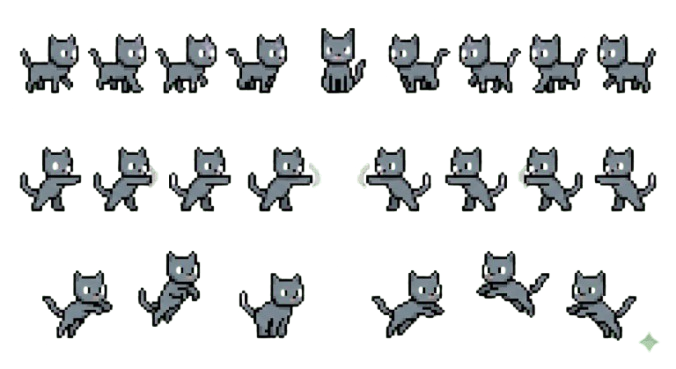
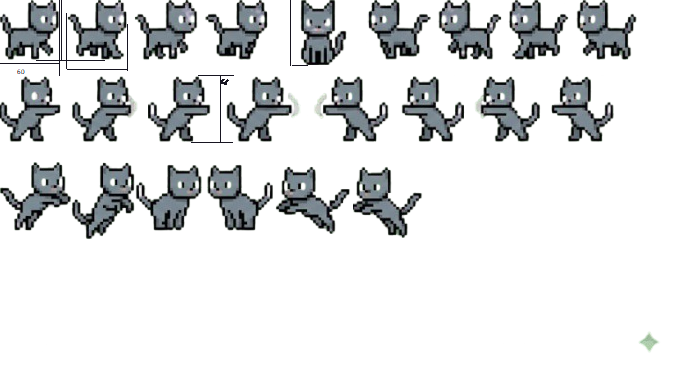
Update player configuration and animations; add grey cat assets

diff --git a/src/entities/Player.ts b/src/entities/Player.ts
@@ -1,6 +1,11 @@
 import { Physics } from "phaser";
 import { PlayerConfig, PlayerState } from "./types/EntityTypes";
-import { ANIMATIONS, ASSETS, ANIMATION_FRAMES, DEFAULT_PLAYER_ASSET } from "../game/constants";
+import {
+  ANIMATIONS,
+  ASSETS,
+  ANIMATION_FRAMES,
+  DEFAULT_PLAYER_ASSET,
+} from "../game/constants";
 import { InputSystem } from "../systems/InputSystem";
 
 export class Player extends Physics.Arcade.Sprite {
@@ -18,12 +23,16 @@ export class Player extends Physics.Arcade.Sprite {
       jumpVelocity: -330,
       jumpDownVelocity: 300,
       gravityY: 300,
+      scale: 0.5,
       ...config,
     };
 
     super(scene, defaultConfig.x, defaultConfig.y, defaultConfig.assetKey);
 
     this.config = defaultConfig;
+    if (defaultConfig.scale) {
+      this.setScale(defaultConfig.scale);
+    }
     this.playerState = {
       isJumping: false,
       isMovingLeft: false,
@@ -43,6 +52,7 @@ export class Player extends Physics.Arcade.Sprite {
   private setProperties(): void {
     this.setBounce(this.config.bounce);
     this.setCollideWorldBounds(true);
+    this.setOrigin(0.5, 1);
   }
 
   private setupPhysics(): void {
@@ -55,8 +65,9 @@ export class Player extends Physics.Arcade.Sprite {
   private setupAnimations(): void {
     const scene = this.scene;
 
+    // Walk animations (row 1, y=0): frames 0-8
     scene.anims.create({
-      key: ANIMATIONS.LEFT,
+      key: ANIMATIONS.RIGHT,
       frames: scene.anims.generateFrameNumbers(ASSETS.GREY_CAT, {
         start: ANIMATION_FRAMES.LEFT_START,
         end: ANIMATION_FRAMES.LEFT_END,
@@ -72,10 +83,21 @@ export class Player extends Physics.Arcade.Sprite {
     });
 
     scene.anims.create({
-      key: ANIMATIONS.RIGHT,
+      key: ANIMATIONS.LEFT,
       frames: scene.anims.generateFrameNumbers(ASSETS.GREY_CAT, {
         start: ANIMATION_FRAMES.RIGHT_START,
         end: ANIMATION_FRAMES.RIGHT_END,
+      }),
+      frameRate: 10,
+      repeat: -1,
+    });
+
+    // Jump animations (row 3, y=128): frames 17-22
+    scene.anims.create({
+      key: ANIMATIONS.JUMP_RIGHT,
+      frames: scene.anims.generateFrameNumbers(ASSETS.GREY_CAT, {
+        start: ANIMATION_FRAMES.JUMP_RIGHT_START,
+        end: ANIMATION_FRAMES.JUMP_RIGHT_END,
       }),
       frameRate: 10,
       repeat: -1,
@@ -86,21 +108,30 @@ export class Player extends Physics.Arcade.Sprite {
       frames: scene.anims.generateFrameNumbers(ASSETS.GREY_CAT, {
         start: ANIMATION_FRAMES.JUMP_LEFT_START,
         end: ANIMATION_FRAMES.JUMP_LEFT_END,
-        first: 128,
       }),
       frameRate: 10,
       repeat: -1,
     });
 
+    // Attack animations (row 2, y=64): frames 9-16
     scene.anims.create({
-      key: ANIMATIONS.JUMP_RIGHT,
+      key: ANIMATIONS.ATTACK_RIGHT,
       frames: scene.anims.generateFrameNumbers(ASSETS.GREY_CAT, {
-        start: ANIMATION_FRAMES.JUMP_RIGHT_START,
-        end: ANIMATION_FRAMES.JUMP_RIGHT_END,
-        first: 128,
+        start: ANIMATION_FRAMES.ATTACK_RIGHT_START,
+        end: ANIMATION_FRAMES.ATTACK_RIGHT_END,
       }),
       frameRate: 10,
-      repeat: -1,
+      repeat: 0,
+    });
+
+    scene.anims.create({
+      key: ANIMATIONS.ATTACK_LEFT,
+      frames: scene.anims.generateFrameNumbers(ASSETS.GREY_CAT, {
+        start: ANIMATION_FRAMES.ATTACK_LEFT_START,
+        end: ANIMATION_FRAMES.ATTACK_LEFT_END,
+      }),
+      frameRate: 10,
+      repeat: 0,
     });
   }
 
@@ -216,7 +247,10 @@ export class Player extends Physics.Arcade.Sprite {
 
     if (this.body.velocity.x > 0) {
       this.setVelocityX(0);
-      this.anims.play(isJumping ? ANIMATIONS.JUMP_RIGHT : ANIMATIONS.TURN, true);
+      this.anims.play(
+        isJumping ? ANIMATIONS.JUMP_RIGHT : ANIMATIONS.TURN,
+        true,
+      );
     } else {
       this.setVelocityX(-this.config.accelerationX);
       this.anims.play(isJumping ? ANIMATIONS.JUMP_LEFT : ANIMATIONS.LEFT, true);
@@ -236,7 +270,10 @@ export class Player extends Physics.Arcade.Sprite {
       this.anims.play(isJumping ? ANIMATIONS.JUMP_LEFT : ANIMATIONS.TURN, true);
     } else {
       this.setVelocityX(this.config.accelerationX);
-      this.anims.play(isJumping ? ANIMATIONS.JUMP_RIGHT : ANIMATIONS.RIGHT, true);
+      this.anims.play(
+        isJumping ? ANIMATIONS.JUMP_RIGHT : ANIMATIONS.RIGHT,
+        true,
+      );
     }
     console.log(
       "🏃 Player MOVE_RIGHT - Velocity set to:",
@@ -249,7 +286,9 @@ export class Player extends Physics.Arcade.Sprite {
     this.setVelocityX(0);
     const isJumping = this.body && !this.body.touching.down;
     if (isJumping) {
-      const lastDirection = this.playerState.isMovingLeft ? ANIMATIONS.JUMP_LEFT : ANIMATIONS.JUMP_RIGHT;
+      const lastDirection = this.playerState.isMovingLeft
+        ? ANIMATIONS.JUMP_LEFT
+        : ANIMATIONS.JUMP_RIGHT;
       this.anims.play(lastDirection, true);
     } else {
       this.anims.play(ANIMATIONS.TURN, true);

diff --git a/src/game/constants.ts b/src/game/constants.ts
@@ -2,6 +2,9 @@
 export const ASSETS = {
   BACKGROUND: "background",
   GREY_CAT: "grey_cat",
+  GREY_CAT_WALK: "grey_cat_walk",
+  GREY_CAT_ATTACK: "grey_cat_attack",
+  GREY_CAT_JUMP: "grey_cat_jump",
   DUDE: "dude",
   COIN: "coin",
   ENEMY: "enemy",
@@ -15,6 +18,8 @@ export const ANIMATIONS = {
   TURN: "turn",
   JUMP_LEFT: "jump_left",
   JUMP_RIGHT: "jump_right",
+  ATTACK_LEFT: "attack_left",
+  ATTACK_RIGHT: "attack_right",
 } as const;
 
 // Default player asset
@@ -78,18 +83,27 @@ export const PLATFORMS = {
 } as const;
 
 // Frame numbers for animations
-// Row 1 (y=0): Walk Left (0-3), Idle (4), Walk Right (5-8)
-// Row 3 (y=128): Jump Left (0-2), Jump Right (3-5)
+// grey_cat.png: 9 frames per row (576 / 64 = 9)
+// Row 1 (y=0): frames 0-8
+// Row 2 (y=64): frames 9-16
+// Row 3 (y=128): frames 17-22
 export const ANIMATION_FRAMES = {
+  // Walk animations (row 1, y=0): frames 0-8
   LEFT_START: 0,
   LEFT_END: 3,
   TURN_FRAME: 4,
   RIGHT_START: 5,
   RIGHT_END: 8,
-  JUMP_LEFT_START: 0,
-  JUMP_LEFT_END: 2,
-  JUMP_RIGHT_START: 3,
-  JUMP_RIGHT_END: 5,
+  // Jump animations (row 3, y=128): frames 17-22
+  JUMP_RIGHT_START: 17,
+  JUMP_RIGHT_END: 19,
+  JUMP_LEFT_START: 20,
+  JUMP_LEFT_END: 22,
+  // Attack animations (row 2, y=64): frames 9-16
+  ATTACK_RIGHT_START: 9,
+  ATTACK_RIGHT_END: 12,
+  ATTACK_LEFT_START: 13,
+  ATTACK_LEFT_END: 16,
 } as const;
 
 // Gravity setting

diff --git a/src/game/scenes/Game.ts b/src/game/scenes/Game.ts
@@ -71,7 +71,8 @@ export class Game extends BaseScene {
     this.player = new Player(this, {
       x: 100,
       y: 440,
-      assetKey: ASSETS.DUDE
+      assetKey: ASSETS.GREY_CAT,
+      scale: 1
     });
     this.add.existing(this.player);
     this.player.initialize();

diff --git a/src/game/scenes/Preloader.ts b/src/game/scenes/Preloader.ts
@@ -39,7 +39,7 @@ export class Preloader extends Scene {
       frameHeight: 32,
     });
     this.load.spritesheet("grey_cat", "grey_cat.png", {
-      frameWidth: 64,
+      frameWidth: 70,
       frameHeight: 64,
     });
     this.load.spritesheet("dude", "dude.png", {

diff --git a/src/entities/types/EntityTypes.ts b/src/entities/types/EntityTypes.ts
@@ -7,6 +7,7 @@ export interface PlayerConfig {
   jumpVelocity: number;
   jumpDownVelocity: number;
   gravityY: number;
+  scale?: number;
 }
 
 export interface PlayerState {
